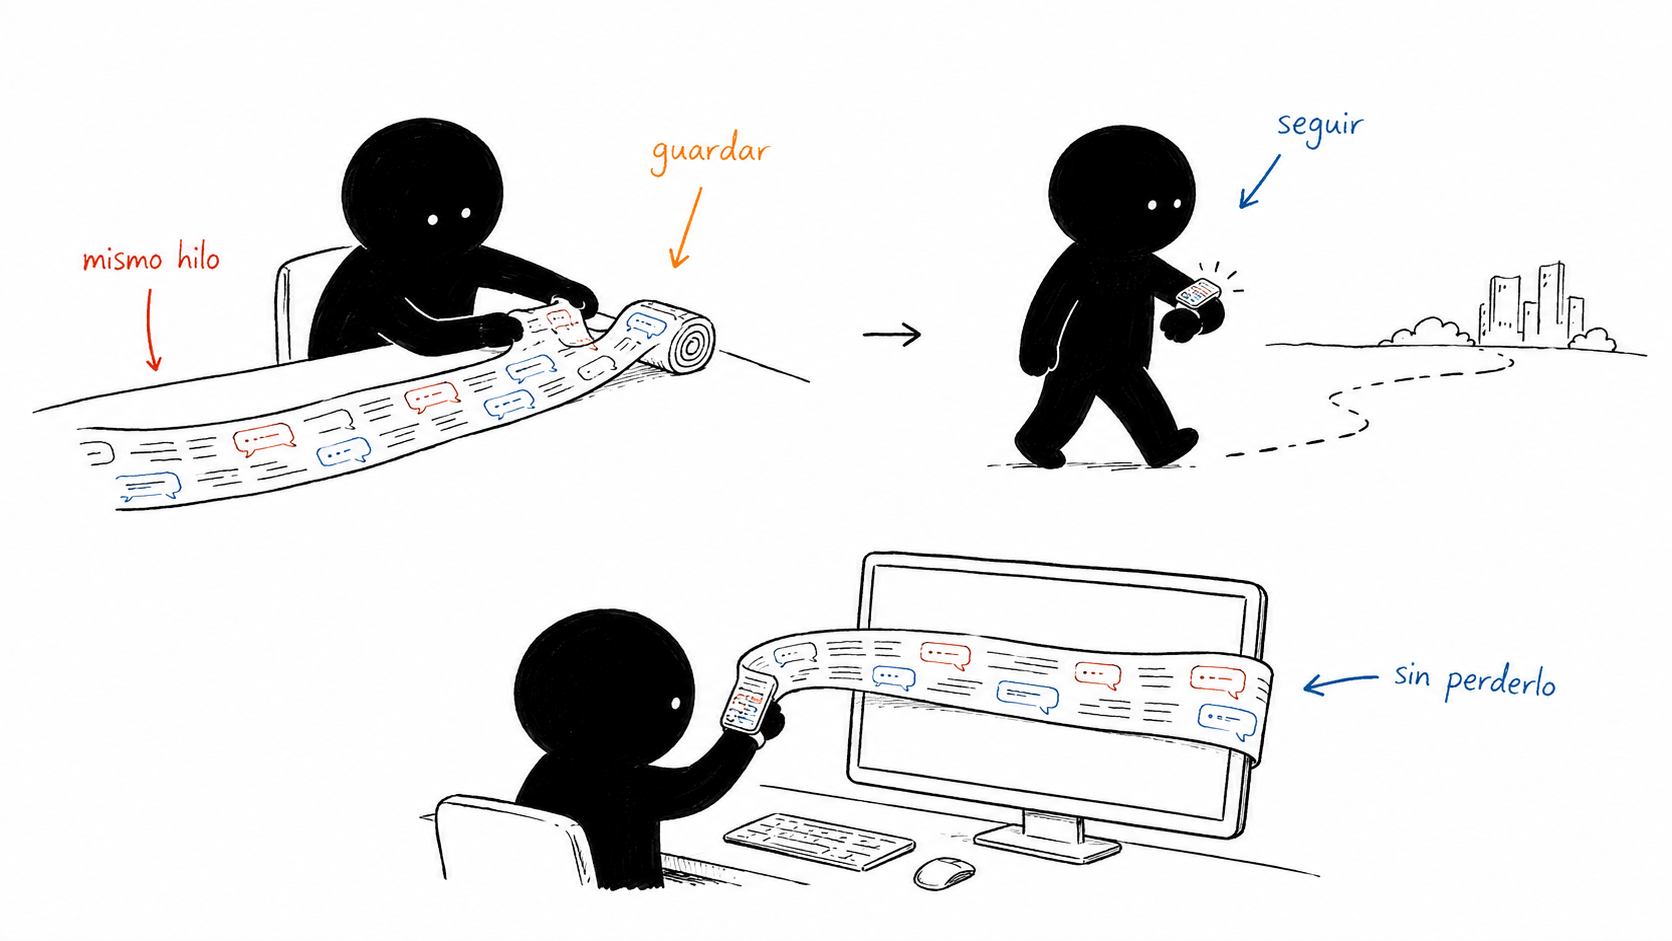
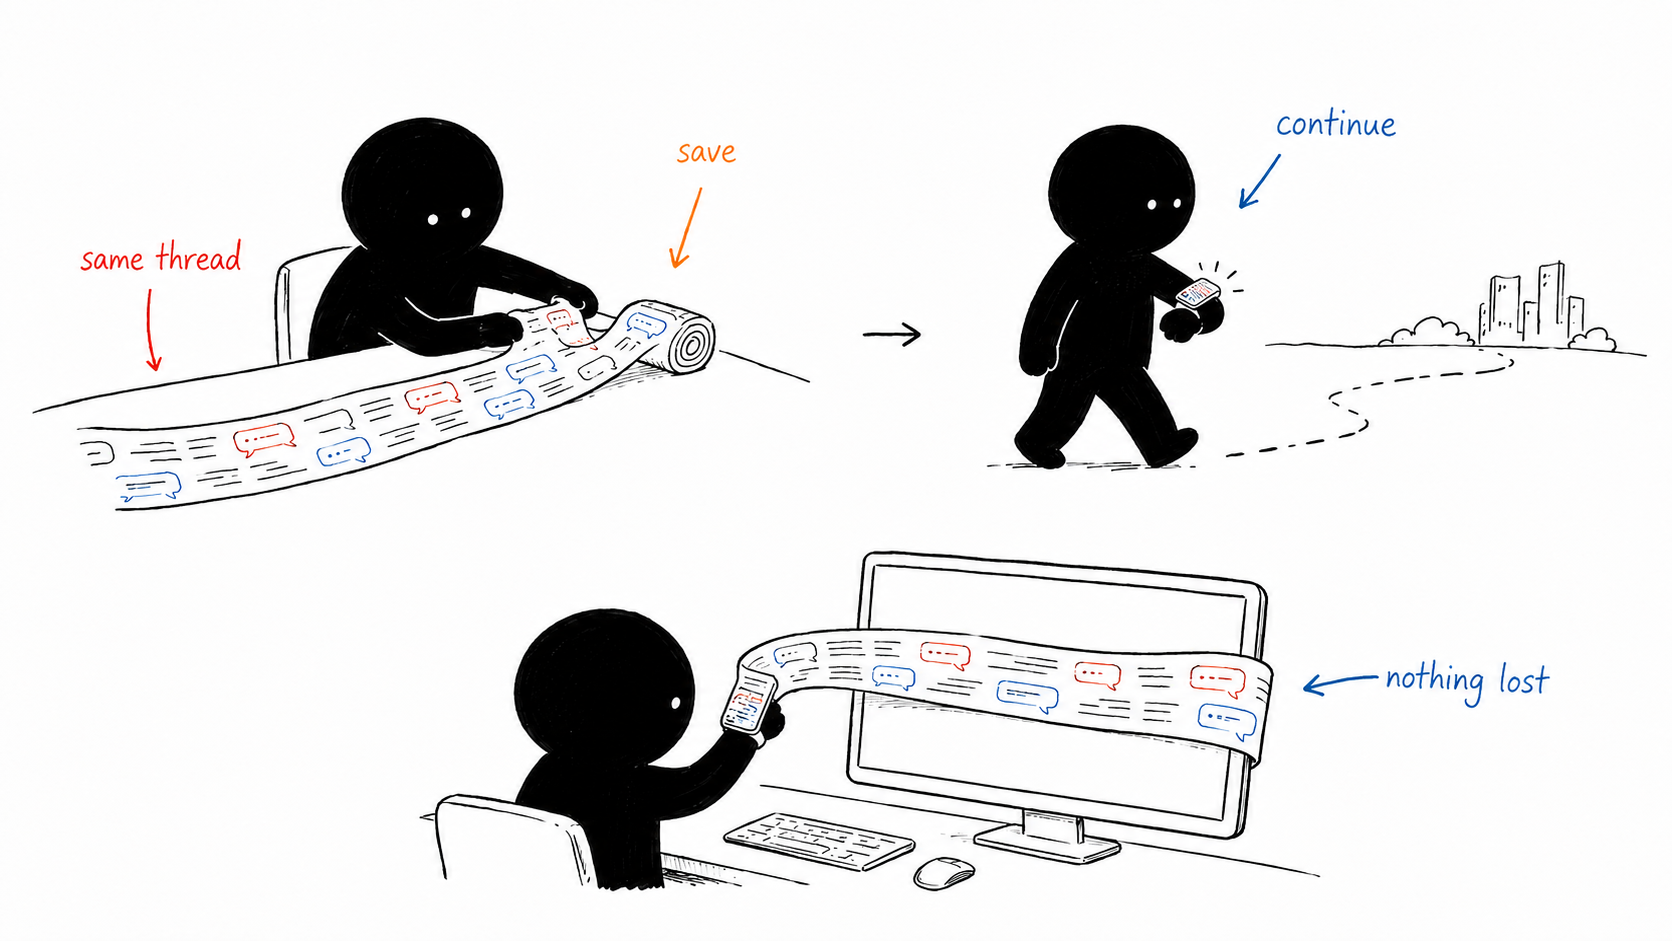
Localize README artwork to English

diff --git a/docs/IMAGE_PROMPTS.md b/docs/IMAGE_PROMPTS.md
@@ -1,27 +1,27 @@
 # Generated image notes
 
-All four README images were generated for this repository in built-in image-generation mode. They contain fictional UI content and no user data.
+All four README images were generated for this repository in built-in image-generation mode. They contain fictional UI content and no user data. The final images use English throughout.
 
 ## Xiaohei editorial illustrations
 
-The conceptual images were generated with the `ian-xiaohei-illustrations` skill.
+The conceptual images were localized with the `ian-xiaohei-illustrations` skill.
 
 ### `01-voice-to-codex.png`
 
-> Create a 16:9 editorial article illustration on a pure white background in the exact Ian Xiaohei style: sparse black hand-drawn linework, lots of empty space, slightly uneven ink texture, and only a few red, orange, and blue annotation accents. One small black blob character with two tiny white dot eyes, deadpan and focused, must perform the core action. Concept: a person speaks into a tiny rounded-square wrist device; Xiaohei physically carries the voice as a small glowing thread through a smartphone-shaped relay and into a desktop computer where an abstract coding agent works, then guides a returning text ribbon back to the wrist. Make it feel like one continuous magical but practical handoff, not a technical architecture diagram. Add only these short Spanish handwritten labels near the corresponding steps: “habla”, “móvil”, “ordenador”, “respuesta”. No headline, no top-left title, no logos, no gradients, no decorative charts, no photorealism, no 3D, no slide-deck aesthetic. Keep the composition airy, readable at README width, and make Xiaohei indispensable to the flow.
+> Use case: text-localization. Edit the supplied 16:9 Xiaohei illustration. Change only the four handwritten Spanish labels to these exact English labels in their corresponding positions: “habla” → “speak”, “móvil” → “phone”, “ordenador” → “computer”, “respuesta” → “reply”. Preserve everything else exactly: pure white background, Xiaohei characters, wrist device, phone, computer, ribbons, arrows, composition, linework, colors, whitespace, aspect ratio, and image quality. Keep the replacement lettering short, handwritten, and in the same color and scale as the original label. All visible words must be English. Do not add, remove, or restyle any object. No title, logo, watermark, or extra text.
 
 ### `02-continuous-thread.png`
 
-> Regenerate from scratch as a 16:9 editorial article illustration on pure white, strictly in Ian Xiaohei style. Xiaohei is an amorphous round black ink blob with a smooth featureless oval head, exactly two tiny white dot eyes, no mouth emphasis, no ears, no hair, no cat features, no animal features, no clothing, no cuteness, calm deadpan expression. Sparse slightly wobbly black hand-drawn linework, lots of whitespace, and only small red, orange, and blue handwritten annotations. One continuous scene/metaphor: Xiaohei at a desk rolls a long conversation ribbon into a tiny rounded-square wrist device, walks away, and later unrolls the identical unbroken ribbon from the watch onto a computer screen. The conversation continuity is the visual point; make the ribbon visibly the same thread throughout. Use only four short Spanish labels: “mismo hilo”, “guardar”, “seguir”, “sin perderlo”. No headline, no title in a corner, no logos, no gradients, no 3D, no photorealism, no infographic boxes, no slide-deck design. Xiaohei must perform the folding and unfolding actions and remain understated, not decorative.
+> Use case: text-localization. Edit the supplied 16:9 Xiaohei illustration. Change only the four handwritten Spanish labels to these exact English labels in their corresponding positions: “mismo hilo” → “same thread”, “guardar” → “save”, “seguir” → “continue”, “sin perderlo” → “nothing lost”. Preserve everything else exactly: pure white background, all Xiaohei figures, desk, wrist device, walking scene, computer, continuous conversation ribbon, arrows, composition, linework, colors, whitespace, aspect ratio, and image quality. Keep the replacement lettering handwritten and in the same color and scale as each original label. All visible words must be English. Do not add, remove, or restyle objects. No title, logo, watermark, or extra text.
 
 ## Product UI mockups
 
 ### `03-companion-app.png`
 
-> Create a polished 16:9 product UI mockup for an open-source project README, not an illustration and not Xiaohei style. Dark minimalist Android companion app shown inside a modern generic smartphone frame, paired with a small rounded-square AMOLED watch beside it. Matte charcoal background with subtle studio lighting; refined lime accent, warm white type, restrained blue/orange status colors. The phone screen should clearly look like a practical connection dashboard with these short Spanish UI labels rendered accurately: “Codex Watch”, “Reloj conectado”, “Servidor”, “Sesión de OpenAI”, “Servicio activo”. Use a generic server address placeholder such as “192.168.1.100:8787”; no real names, emails, IP identities, avatars, logos, tokens, or personal data. The watch display shows a short generic assistant reply and a softly glowing multicolor listening orb. Emphasize legibility, believable spacing, accessible touch targets, and a premium but buildable interface. No Apple branding, no OpenAI logo, no proprietary device logo, no hands, no photorealistic people.
+> Use case: ui-mockup. Asset type: polished 16:9 product image for an open-source GitHub README. Recreate the same concept as a dark minimalist Android companion dashboard shown inside a modern generic smartphone frame, paired with a small rounded-square AMOLED watch on the right. Matte charcoal studio background, subtle lighting, refined lime accent, warm white type, restrained blue status color. The phone UI has four simple stacked cards and must contain only these exact English strings, rendered verbatim and legibly: header “Codex Watch”; first card “Watch connected” with “78%”; second card “Server”, “192.168.1.100:8787”, “Connected”; third card “OpenAI session”, “Active”; fourth card “Service active”, “Listening”; bottom primary button “Stop listening”. The watch screen shows exactly: “Sure, I can help. What else do you need?” above a softly glowing multicolor listening orb. Every visible word must be English; absolutely no Spanish words, especially no “Activa”. No real names, emails, identities, avatars, tokens, personal data, logos, Apple branding, OpenAI logo, proprietary device logo, hands, or people. Emphasize believable spacing, large readable labels, accessible touch targets, and a premium but buildable interface.
 
 ### `04-watch-ui.png`
 
-> Create a polished 16:9 UI design board for a tiny rounded-square 1.8-inch AMOLED touch device, shown as four separate generic watch screen mockups aligned horizontally on a neutral warm-gray studio background. This is a product interface visualization, not Xiaohei style, not an illustration. Use pure black OLED surfaces, large warm-white typography, subtle lime accents, a one-pixel battery line near the top, generous touch areas, and a vivid slow-moving multicolor orb. Screen 1: a simple list of conversation titles only, using generic Spanish titles such as “Diseñar la portada”, “Revisar la API”, “Plan del fin de semana”. Screen 2: one scrollable latest assistant message in large readable Spanish text with a clear back control. Screen 3: recording state with the colorful orb moving faster and the short label “Grabando…”. Screen 4: a full-screen handoff confirmation with the concise question “¿Cerrar Codex en el escritorio?”, a large primary button “Cerrar Codex” and a smaller “Cancelar”. Render all Spanish text carefully and legibly. No real names, emails, avatars, timestamps, personal data, logos, Apple branding, gradients outside the orb, skeuomorphic chrome, hands, or decorative clutter. Make it credible as an ESP32 interface with constrained pixels and rounded display corners.
+> Use case: text-localization. Edit the supplied 16:9 four-screen watch UI design board. Translate every visible Spanish string into English while preserving the exact four devices, layout, geometry, typography hierarchy, black OLED surfaces, lime accents, battery lines, colorful orb, shadows, background, and composition. Required English text rendered verbatim with no Spanish remaining. Screen 1: heading “Conversations”; titles “Design the cover”, “Review the API”, “Weekend plan”. Screen 2: back control “Back”; message “I reviewed the API and the flow is correct. The only thing left is handling a 429 error in the response.” Screen 3: “Recording…”. Screen 4: question “Close Codex on desktop?”; primary button “Close Codex”; secondary button “Cancel”. Do not add personal data, names, logos, brands, extra controls, watermarks, or new text. Change only text localization; keep everything else unchanged.
 
 These images are design explanations, not pixel-perfect screenshots of a release build.
